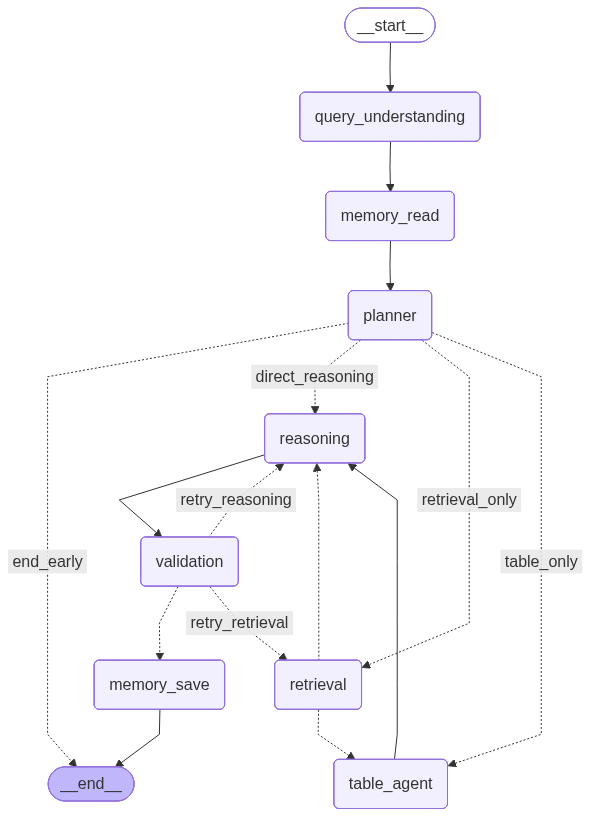
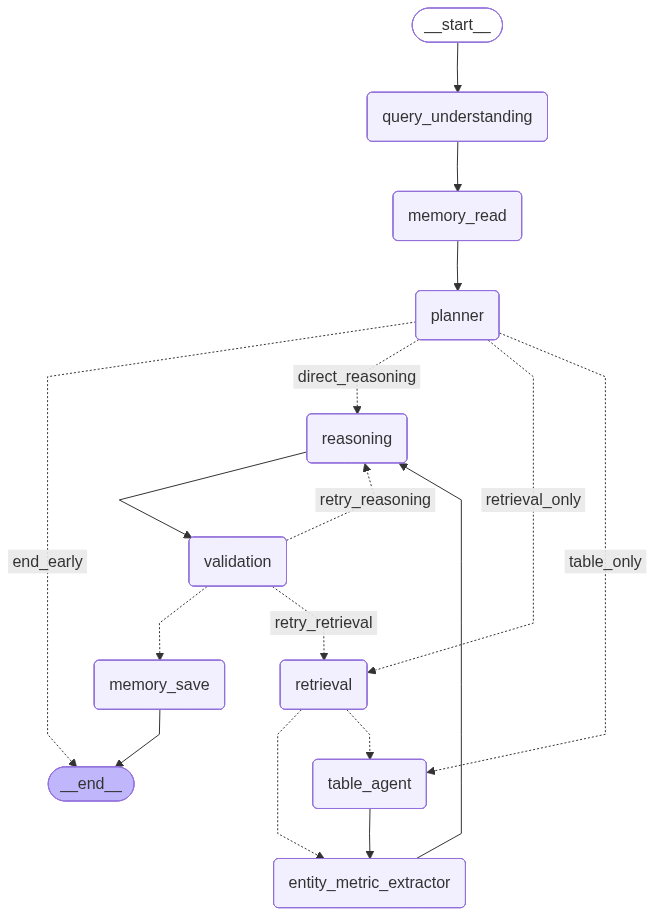
docs: regenerate workflow diagram with entity_metric_extractor node
Updates workflow.png/workflow.mmd shown in README.md to reflect the
pre-synthesis fact-extraction node that sits between retrieval/table_agent
and reasoning. generate_workflow_png.py topology kept in sync with
graph/workflow.py.

diff --git a/generate_workflow_png.py b/generate_workflow_png.py
@@ -44,7 +44,10 @@ def _build_topology_only():
         return "direct_reasoning"
 
     def _post_retrieval_router(state):
-        return "table_agent" if state.get("use_table_agent", False) else "reasoning"
+        # Both branches converge on entity_metric_extractor before reasoning —
+        # the pre-synthesis fact-extraction node added for grounded numerical
+        # attribution. Keep in sync with graph/workflow.py.
+        return "table_agent" if state.get("use_table_agent", False) else "entity_metric_extractor"
 
     def _validation_router(state):
         verdict = state.get("validation_verdict", "pass")
@@ -60,8 +63,9 @@ def _build_topology_only():
     b = StateGraph(_State)
     for n in [
         "query_understanding", "memory_read", "planner",
-        "retrieval", "table_agent", "reasoning",
-        "validation", "memory_save",
+        "retrieval", "table_agent",
+        "entity_metric_extractor",
+        "reasoning", "validation", "memory_save",
     ]:
         b.add_node(n, _noop)
 
@@ -77,12 +81,17 @@ def _build_topology_only():
     })
     b.add_conditional_edges("retrieval", _post_retrieval_router, {
         "table_agent": "table_agent",
-        "reasoning": "reasoning",
+        "entity_metric_extractor": "entity_metric_extractor",
     })
-    b.add_edge("table_agent", "reasoning")
+    # Table agent → extractor → reasoning. The extractor runs before reasoning
+    # so the prompt has a pre-extracted (entity, metric, value) facts table.
+    b.add_edge("table_agent", "entity_metric_extractor")
+    b.add_edge("entity_metric_extractor", "reasoning")
     b.add_edge("reasoning", "validation")
     b.add_conditional_edges("validation", _validation_router, {
         "memory_save": "memory_save",
+        # CRAG retry skips the extractor — facts persist in state from the
+        # first pass, so re-extracting would waste an LLM call.
         "retry_reasoning": "reasoning",
         "retry_retrieval": "retrieval",
     })